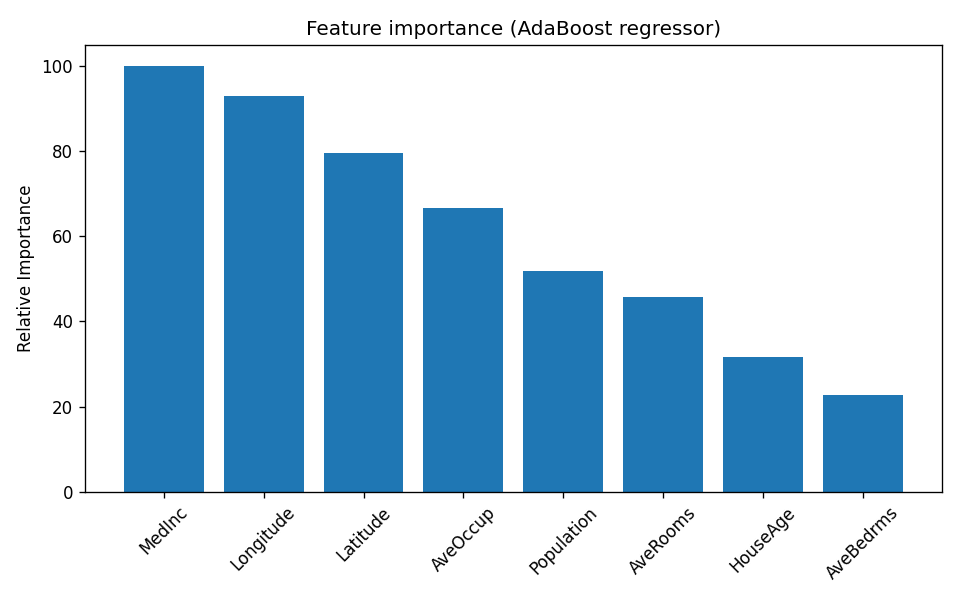
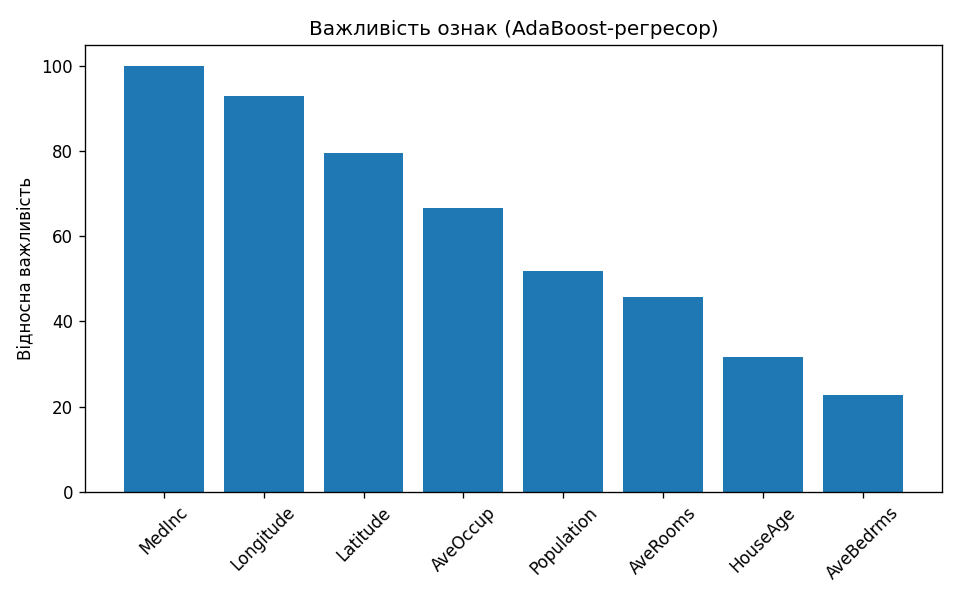
task 5 fix

Changed region(s): [[0.3125, 0.03, 0.75, 0.06], [0.0, 0.3, 0.0312, 0.6]]

diff --git a/LR_5/src/LR_5_task_4.py b/LR_5/src/LR_5_task_4.py
@@ -50,8 +50,8 @@ pos = np.arange(index_sorted.shape[0]) + 0.5
 plt.figure(figsize=(8, 5))
 plt.bar(pos, feature_importances[index_sorted], align="center")
 plt.xticks(pos, np.array(feature_names)[index_sorted], rotation=45)
-plt.ylabel("Relative Importance")
-plt.title("Feature importance (AdaBoost regressor)")
+plt.ylabel("Відносна важливість")
+plt.title("Важливість ознак (AdaBoost-регресор)")
 plt.tight_layout()
 plt.savefig("outputs/task_4_feature_importance.png", dpi=120)
 plt.close()
